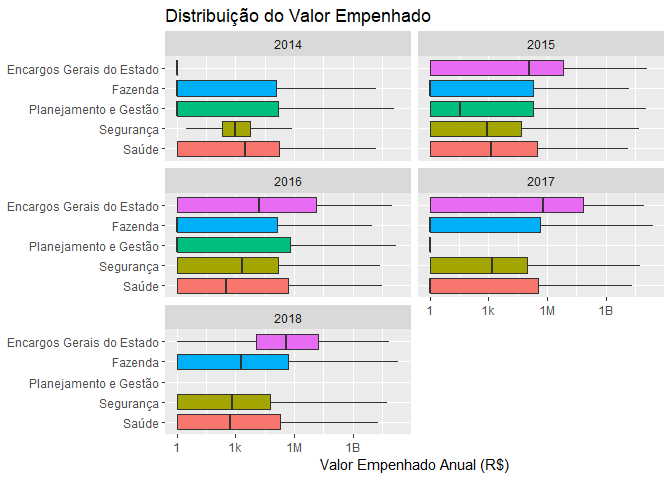
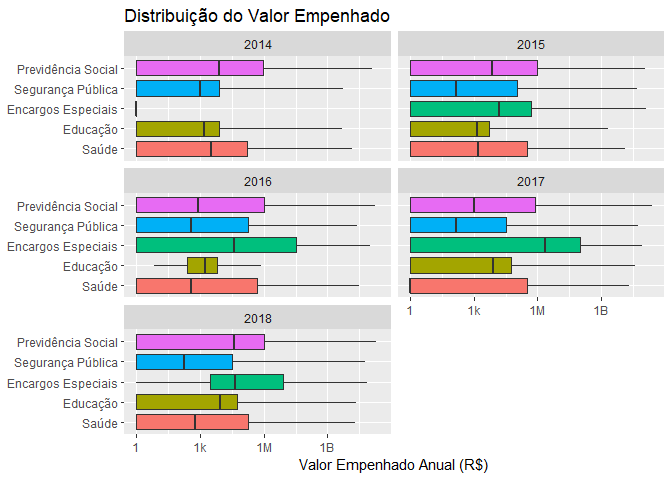
funcao e valores

diff --git a/empenho_anos.md b/empenho_anos.md
@@ -15,85 +15,69 @@ nrow(df_all)
 #> [1] 705527
 ```
 
-Limpa nome de orgao de maneira mais genérica
+Renomeia e seleciona colunas a serem utilizadas
 
 ``` r
-clean_orgao_gen <- function(orgao) orgao %>%
-  str_remove_all("[^[:alpha:]\\s]") %>%
-  str_remove_all("Sec(ret|retaria)? ?d[aeo] Est(ado)? (d[aeo])?") %>%
-  str_remove_all("Sec Est de ")
-  #str_remove("^Sec(retaria|ret)?\\.? ?d[aeo] Est.?(ado)? d[aeo] ?")
+df_all_clean <- df_all %>%
+  # era: rename(), select() deixa df menor
+  select(ano,
+         func_cod=`Função`,
+         func=`Nome Função`,
+         empenhado=`Valor Empenhado`,
+         liquidado=`Valor Liquidado`,
+         pago=`Valor Pago`)
 ```
 
-Cria tabela de referência p/ nomes de órgãos (usa o primeiro a aparecer)
+Nomes das funções são únicas por código?
 
 ``` r
-df_orgao_ref <- df_all %>%
-  rename(valor_empenhado=`Valor Empenhado`,
-         orgao_cod=`Órgão`,
-         orgao=`Nome Órgão`) %>%
-  mutate(orgao=orgao%>%as.character) %>% # era fatir
-  group_by(orgao_cod) %>%
-  summarize(n=n(),orgao_list=list(orgao)) %>%
-  mutate(orgao_ref=map_chr(orgao_list,first)) %>%
-  select(orgao_cod,orgao_ref) %>%
-  mutate(orgao_ref=orgao_ref%>%clean_orgao_gen) %>%
-  arrange(orgao_cod)
-df_orgao_ref
-#> # A tibble: 34 x 2
-#>    orgao_cod orgao_ref                         
-#>    <fct>     <chr>                             
-#>  1 01        Assembléia Legislativa            
-#>  2 02        Tribunal de Contas do Estado do RJ
-#>  3 03        Tribunal de Justiça               
-#>  4 07        " Obras"                          
-#>  5 08        ViceGovernadoria                  
-#>  6 09        Procuradoria Geral do Estado      
-#>  7 10        Ministério Público                
-#>  8 11        Defensoria Pública Geral do Estado
-#>  9 12        " Planejamento e Gestão"          
-#> 10 13        " Agricultura e Pecuária"         
-#> # ... with 24 more rows
+df_all_clean %>%
+  count(func_cod,func) %>%
+  count(func_cod) %>%
+  count(nn)
+#> # A tibble: 1 x 2
+#>      nn     n
+#>   <int> <int>
+#> 1     1    25
 ```
 
-Órgãos com maior valor empenhado total (top 5)
+Função com maior valor empenhado total (top 5)
 
 ``` r
-anos <- unique(df_all$ano%>%as.character)%>%as.integer
+anos <- unique(df_all_clean$ano%>%as.character)%>%as.integer
 
-df_all_top_orgaos_valor_empenhado <- df_all %>%
-  rename(valor_empenhado=`Valor Empenhado`,
-         orgao_cod=`Órgão`) %>%
-  group_by(orgao_cod) %>%
+df_top_funcs_empenhado <- df_all_clean %>%
+  group_by(func_cod,func) %>%
   summarize(n=n(),
-            total=sum(valor_empenhado)) %>%
+            total=sum(empenhado)) %>%
   arrange(desc(total)) %>%
   head(5) %>%
-  inner_join(df_orgao_ref,by="orgao_cod") %>%
-  select(orgao_cod,orgao_ref,everything()) %>%
+  select(func_cod,func,everything()) %>%
+  ungroup() %>%
+  mutate_at(vars(func_cod,func),fct_drop) %>% # so unused levels are dropped
   mutate(media_anual=total/length(anos)) %>%
   mutate_at(vars(total,media_anual),~(./10^9)%>%as.integer) %>%
   rename_at(vars(total,media_anual),~str_c(.,"_b")) # billions
-df_all_top_orgaos_valor_empenhado
+df_top_funcs_empenhado
 #> # A tibble: 5 x 5
-#>   orgao_cod orgao_ref                     n total_b media_anual_b
-#>   <fct>     <chr>                     <int>   <int>         <int>
-#> 1 37        Encargos Gerais do Estado 19223    4274           854
-#> 2 20        " Fazenda"                13140    3940           788
-#> 3 12        " Planejamento e Gestão"  12912    3917           783
-#> 4 26        " Segurança"              38427    2569           513
-#> 5 29        " Saúde"                  77625    1646           329
+#>   func_cod func                    n total_b media_anual_b
+#>   <fct>    <fct>               <int>   <int>         <int>
+#> 1 09       Previdência Social  11506    7478          1495
+#> 2 06       Segurança Pública   77487    3991           798
+#> 3 28       Encargos Especiais  15356    3696           739
+#> 4 12       Educação           235933    2520           504
+#> 5 10       Saúde               78066    1644           328
 ```
 
-Plota médias anuais
+Valores médios anuais
 
 ``` r
-df_all_top_orgaos_valor_empenhado%>%
-  mutate(orgao_ref=orgao_ref%>%fct_inorder()%>%fct_rev)%>%
-  ggplot(aes(orgao_ref,media_anual_b)) +
-  geom_col(aes(fill=orgao_ref)) +
+df_top_funcs_empenhado %>%
+  mutate(func=func%>%fct_inorder()%>%fct_rev) %>%
+  ggplot(aes(func,media_anual_b)) +
+  geom_col(aes(fill=func)) +
   coord_flip() +
-  labs(title="Média de Valores Empenhados Anuais por Órgão",
+  labs(title="Média de Valores Empenhados Anuais por Função",
        subtitle=sprintf("Anos %s-%s, Top 5", min(anos),max(anos)),
        y="Valor Empenhado Anual Médio (R$ bilhões)") +
   theme(legend.position = "none",
@@ -102,33 +86,32 @@ df_all_top_orgaos_valor_empenhado%>%
 
 ![](empenho_anos_files/figure-gfm/unnamed-chunk-6-1.png)<!-- -->
 
-Evolução história dos Valores Empenhados destes top órgãos:
+Evolução história dos Valores Empenhados destes top funçãos:
 
 ``` r
-df_hist <- df_all %>%
-  rename(valor_empenhado=`Valor Empenhado`,
-         orgao_cod=`Órgão`) %>%
-  inner_join(df_all_top_orgaos_valor_empenhado%>%
-               select(orgao_cod,orgao=orgao_ref),
-             by="orgao_cod") %>%
-  group_by(ano,orgao) %>%
-  summarize(total_b=sum(valor_empenhado)/10^9) %>%
+df_hist <- df_all_clean %>%
+  semi_join(df_top_funcs_empenhado,by="func_cod") %>%
+  group_by(ano,func) %>%
+  summarize(total_b=sum(empenhado)/10^9) %>%
   arrange(desc(total_b)) %>%
   ungroup() %>% # para q proxima linha rode corretamente
-  mutate(orgao=orgao%>%fct_inorder) #
+  mutate(func=func%>%fct_drop%>%fct_inorder) #
+#> Warning: Column `func_cod` joining factors with different levels, coercing
+#> to character vector
 ```
 
 Grafa o histórico:
 
 ``` r
 df_hist %>%
-  ggplot(aes(ano,total_b,group=orgao,color=orgao)) +
+  ggplot(aes(ano,total_b,group=func,color=func)) +
   geom_line(size=I(1)) +
   # scale_y_log10() +
-  labs(title="Valor Empenhado Anual por Órgão",
+  labs(title="Valor Empenhado Anual por Função",
        subtitle=sprintf("Anos %s-%s, Top 5", min(anos),max(anos)),
        y = "Valor Empenhado Total (R$ bilhões)") +
-  theme(legend.position = "bottom")
+  theme(legend.position = "bottom",
+        legend.title=element_blank())
 ```
 
 ![](empenho_anos_files/figure-gfm/unnamed-chunk-8-1.png)<!-- -->
@@ -136,15 +119,11 @@ df_hist %>%
 Distribuição de Valor Empenhado por ano (faceteamento)
 
 ``` r
-df_all %>%
-  rename(valor_empenhado=`Valor Empenhado`,
-         orgao_cod=`Órgão`) %>%
-  inner_join(df_all_top_orgaos_valor_empenhado%>%
-               select(orgao_cod,orgao=orgao_ref),
-             by="orgao_cod") %>%
-  mutate(orgao=orgao%>%fct_reorder(valor_empenhado,sum)) %>%
-  ggplot(aes(orgao,valor_empenhado+1)) +
-  geom_boxplot(aes(fill=orgao),outlier.shape=NA) +
+df_all_clean %>%
+  semi_join(df_top_funcs_empenhado,by="func_cod") %>%
+  mutate(func=func%>%fct_reorder(empenhado,sum)) %>%
+  ggplot(aes(func,empenhado+1)) +
+  geom_boxplot(aes(fill=func),outlier.shape=NA) +
   scale_y_log10(breaks=10^c(0,3,6,9),labels=c("1","1k","1M","1B")) + #breaks=10^(1:5),labels=10^(1:5)%>%as.integer) +
   coord_flip() + # ylim=c(10,.5*10^5)) +
   facet_wrap(~ano,ncol=2) +
@@ -152,6 +131,8 @@ df_all %>%
        y = "Valor Empenhado Anual (R$)") +
   theme(legend.position = "none",
         axis.title.y=element_blank())
+#> Warning: Column `func_cod` joining factors with different levels, coercing
+#> to character vector
 ```
 
 ![](empenho_anos_files/figure-gfm/unnamed-chunk-9-1.png)<!-- -->
